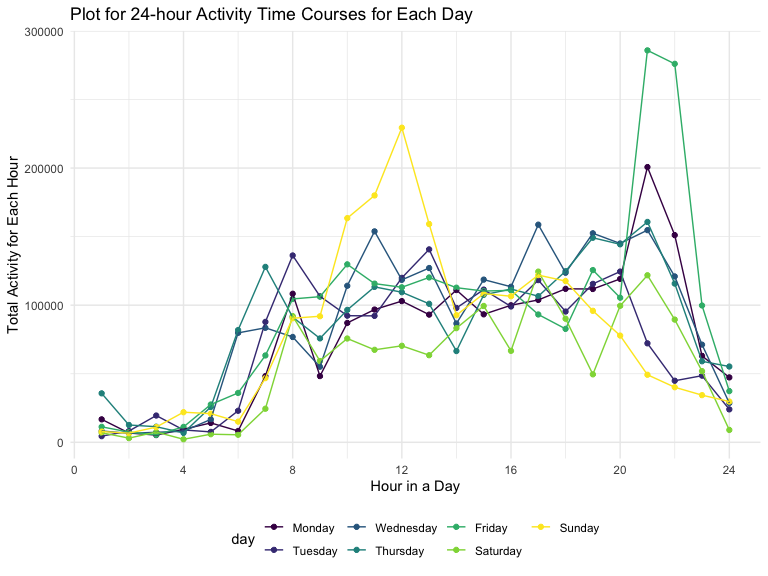
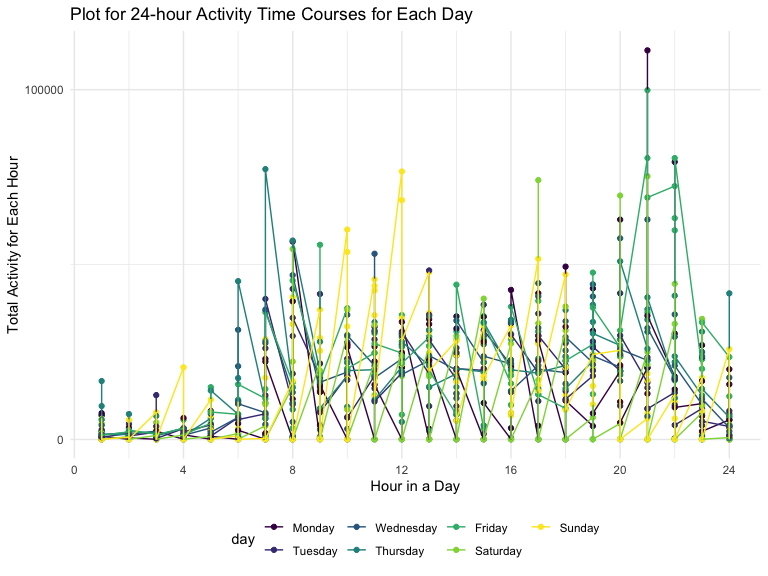
modification of the last plot

diff --git a/p8105_hw3_kw2873.md b/p8105_hw3_kw2873.md
@@ -485,9 +485,9 @@ in words any patterns or conclusions you can make based on this graph.
 tidy_accel_data %>% 
   group_by(day) %>% 
   mutate(
-  ### cahnging min into hour using rounding
   hour_per_day = ceiling(nth_minute/60)) %>% 
-  group_by(day, hour_per_day) %>% 
+  ## sum up one-hour activity
+  group_by(day_id,day, hour_per_day) %>% 
   summarize(sum_by_hour = sum(activity)) %>% 
   ggplot(aes(x = hour_per_day, y = sum_by_hour)) +
   geom_point(aes(color = day)) +
@@ -507,8 +507,11 @@ tidy_accel_data %>%
 ```
 
 <img src="p8105_hw3_kw2873_files/figure-gfm/unnamed-chunk-12-1.png" width="90%" />
-According to the plot above, we can see that the man is inactive during
-0AM - 8AM, and then maintained a stable level of activeness for the rest
-of day from 8AM to 8PM. However, he moved around a lot at Friday nights
-and Sunday mornings relatively. Then his activity counts gradually
-decreased after 8PM.
+
+By summing up the each one- hour actvity, I create a plot showing the
+trend of activity within 35 days based on 24-hour time course. According
+to the plot above, we can see that the man is inactive during 0AM - 8AM,
+and then maintained a stable level of activeness for the rest of day
+from 8AM to 8PM. However, he moved around a lot at Friday nights and
+Sunday mornings relatively. Then his activity counts gradually decreased
+after 8PM.
